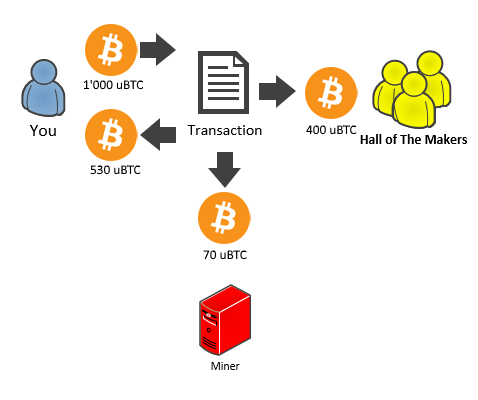
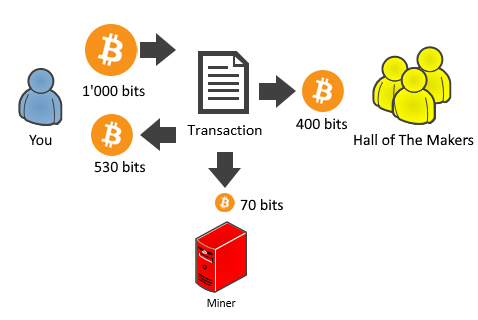
Fixed a few things according to our discussions
* Removed the "be careful" expression
* Replaced all blockchain explorer links with SmartBit
* Added back the console output comments
* Fixed a few typos
* Rewrote the unit description section
* Changed microBTC to bits
* Modified the SpendTx.png picture

Changed region(s): [[0.1757, 0.0625, 0.9958, 0.6562], [0.0293, 0.125, 0.1464, 0.4688], [0.41, 0.6875, 0.5272, 0.9688]]

diff --git a/bitcoin_transfer/spend_your_coin.md b/bitcoin_transfer/spend_your_coin.md
@@ -22,7 +22,7 @@ Console.WriteLine(bitcoinPrivateKey);
 Console.WriteLine(address);
 ```
 
-Note that we use the TestNet first, but you will probably do this on the MainNet as well, so you are going to spend real money! **Be careful!** In any case, write down the **bitcoinPrivateKey** and the address! Send a few dollars of coins there and save the transaction ID \(you can find it in your wallet software or with a blockexplorer, like [blockchain.info](http://blockchain.info/) for MainNet or [blockcypher.com](https://live.blockcypher.com) for both MainNet and TestNet).
+Note that we use the TestNet first, but you will probably do this on the MainNet as well, so you are going to spend real money! In any case, write down the **bitcoinPrivateKey** and the address! Send a few dollars of coins there and save the transaction ID \(you can find it in your wallet software or with a blockexplorer, like SmartBit for [MainNet](http://smartbit.com.au/) and [TestNet](https://testnet.smartbit.com.au/)).
 
 Import your private key (replace the "cN5Y...K2RS" string with yours):
 
@@ -31,19 +31,19 @@ var bitcoinPrivateKey = new BitcoinSecret("cN5YQMWV8y19ntovbsZSaeBxXaVPaK4n7vapp
 var network = bitcoinPrivateKey.Network;
 var address = bitcoinPrivateKey.GetAddress();
 
-Console.WriteLine(bitcoinPrivateKey);
-Console.WriteLine(address);
+Console.WriteLine(bitcoinPrivateKey); // cN5YQMWV8y19ntovbsZSaeBxXaVPaK4n7vapp4V56CKx5LhrK2RS
+Console.WriteLine(address); // mkZzCmjAarnB31n5Ke6EZPbH64Cxexp3Jp
 ```
 
-Wait for the confirmation and finally get the transaction info (replace the "0acb...b78a" with the one you got from your wallet software or blockchain explorer after you sent the coins):
+And finally get the transaction info (replace the "0acb...b78a" with the one you got from your wallet software or blockchain explorer after you sent the coins):
 
 ```cs
 var client = new QBitNinjaClient(network);
[1 lines of base64/hex data omitted]
 var transactionResponse = client.GetTransaction(transactionId).Result;
 
-Console.WriteLine(transactionResponse.TransactionId);
-Console.WriteLine(transactionResponse.Block.Confirmations);
+Console.WriteLine(transactionResponse.TransactionId); // 0acb6e97b228b838049ffbd528571c5e3edd003f0ca8ef61940166dc3081b78a
+Console.WriteLine(transactionResponse.Block.Confirmations); // 91
 ```
 
 Now we have every bit of information we need to create our transactions. The main questions are: **from where, to where and how much?**
@@ -83,16 +83,16 @@ Do you remember the main questions? **From where, to where and how much?**
 Constructing the **TxIn** and adding it to the transaction is the answer to the "from where" question.  
 Constructing the **TxOut** and adding it to the transaction is the answer to the remaining ones.
 
-> The donation address of this book is: [1KF8kUVHK42XzgcmJF4Lxz4wcL5WDL97PB](https://blockchain.info/address/1KF8kUVHK42XzgcmJF4Lxz4wcL5WDL97PB)  
+> The donation address of this book is: [1KF8kUVHK42XzgcmJF4Lxz4wcL5WDL97PB](https://www.smartbit.com.au/address/1KF8kUVHK42XzgcmJF4Lxz4wcL5WDL97PB)  
 This money goes into Nicolas' "Coffee and Sushi Wallet" that will keep him fed and compliant while writing the rest of the book.  
 If you succeed in completing this challenge on the MainNet you will be able to find your contribution among the **Hall of the Makers** on [http://n.bitcoin.ninja/](http://n.bitcoin.ninja/) \(ordered by generosity\).
 
-To get the our MainNet address:
+To get our MainNet address:
 ```cs
 var hallOfTheMakersAddress = new BitcoinPubKeyAddress("1KF8kUVHK42XzgcmJF4Lxz4wcL5WDL97PB");
 ```
 
-Or if you are working on the TestNet, send the TestNet coins to [our TestNet address](https://live.blockcypher.com/btc-testnet/address/mzp4No5cmCXjZUpf112B1XWsvWBfws5bbB/).
+Or if you are working on TestNet, send the TestNet coins to any address. I used [mzp4No5cmCXjZUpf112B1XWsvWBfws5bbB](https://testnet.smartbit.com.au/address/mzp4No5cmCXjZUpf112B1XWsvWBfws5bbB).
 
 ```cs
 var hallOfTheMakersAddress = BitcoinAddress.Create("mzp4No5cmCXjZUpf112B1XWsvWBfws5bbB", Network.TestNet);
@@ -100,11 +100,11 @@ var hallOfTheMakersAddress = BitcoinAddress.Create("mzp4No5cmCXjZUpf112B1XWsvWBf
 
 ### How much?
 
-Bitcoin has [several units to use](https://en.bitcoin.it/wiki/Units). 1 bitcoin (BTC) is 1'000 milli-bitcoins/millibits. 1 milli-bitcoin (mBTC) is 1'000 micro-bitcoins/bits. And finally 1 (&micro;BTC) micro-bitcoin is 100 satoshis. 1 satoshi (sat) is the smallest unit on the Bitcoin network.  
+Bitcoin has [several units to use](https://en.bitcoin.it/wiki/Units), but there are three you should know about: bitcoins, bits and satoshis. 1 bitcoin (BTC) is 1'000'000 bits and 100 satoshis are 1 bit. 1 satoshi (sat) is the smallest unit on the Bitcoin network.  
 
-If you want to send **400 &micro;BTC** (a few dollars) from an **unspent output**, which holds **1'000 &micro;BTC**, you actually have to spend it all!  
-As the diagram shows below, your **transaction output** specifies  **400 &micro;BTC** to [Hall of The Makers](http://n.bitcoin.ninja/) and **530 &micro;BTC** back to you.  
-What happens to the remaining **70 &micro;BTC**? This is the _miner fee_.  
+If you want to send **400 bits** (a few dollars) from an **unspent output**, which holds **1'000 bits**, you actually have to spend it all!  
+As the diagram shows below, your **transaction output** specifies  **400 bits** to [Hall of The Makers](http://n.bitcoin.ninja/) and **530 bits** back to you.  
+What happens to the remaining **70 bits**? This is the _miner fee_.  
 The miner fee incentivizes the miners to add this transaction into their next block. The higher the miner fee the more motivated the miner is to include your transaction in the next block, meaning that your transaction will be confirmed faster. If you set the miner fee to zero, your transaction might never be confirmed.
 
 ![](../assets/SpendTx.png)
@@ -169,7 +169,7 @@ transaction.Outputs.Add(changeTxOut);
 
 ### Message on The Blockchain
 
-Now add your personal feedback! This must be less than 80 bytes or your transaction will be rejected.  
+Now add your personal feedback! This must be less than or equal to 80 bytes or your transaction will get rejected.  
 This message along with your transaction will appear \(after your transaction is confirmed\) in the [Hall of The Makers](http://n.bitcoin.ninja/)! :)
 
 ```cs
@@ -188,7 +188,7 @@ We have 3 **TxOut**, 2 with **value**, 1 without **value** \(which contains the 
 
 ```json
 {
[2 lines of base64/hex data omitted]
   "ver": 1,
   "vin_sz": 1,
   "vout_sz": 3,
@@ -223,7 +223,7 @@ We have 3 **TxOut**, 2 with **value**, 1 without **value** \(which contains the 
 Take a closer look at **TxIn**. We have **prev\_out** and **scriptSig** there.  
 **Exercise:** try to figure out what **scriptSig** will be and how to get it in our code before you read further!
 
-Let's check out the **hash** of **prev\_out** in a TestNet blockexplorer: [prev\_out tx details](https://live.blockcypher.com/btc-testnet/tx/0acb6e97b228b838049ffbd528571c5e3edd003f0ca8ef61940166dc3081b78a/).  You can see that 0.001 BTC, so 1'000 &micro;BTC was transferred to our address.
+Let's check out the **hash** of **prev\_out** in a TestNet blockexplorer: [prev\_out tx details](https://testnet.smartbit.com.au/tx/0acb6e97b228b838049ffbd528571c5e3edd003f0ca8ef61940166dc3081b78a).  You can see that 0.001 BTC, so 1'000 bits was transferred to our address.
 
 In **prev\_out** **n** is 0. Since we are indexing from 0, this means that we want to spend the first output of the transaction (the second one is the 1.0989548 BTC change from the transaction).  
 
@@ -237,7 +237,7 @@ First let's revisit the **scriptSig** of **in** and how we can get it from code.
 
 ```cs
 // Get it from the public address
-var address = BitcoinAddress.Create("mkZzCmjAarnB31n5Ke6EZPbH64Cxexp3Jp");
+var address = BitcoinAddress.Create("mkZzCmjAarnB31n5Ke6EZPbH64Cxexp3Jp", Network.TestNet);
 transaction.Inputs[0].ScriptSig = address.ScriptPubKey;
 
 // OR we can also use the private key 
@@ -252,7 +252,7 @@ transaction.Sign(bitcoinPrivateKey, false);
 ```
 After this command the ScriptSig property of the input will be replaced by the signature, making the transaction signed.  
 
-You can check out our TestNet transaction on the blockchain explorer [here](https://live.blockcypher.com/btc-testnet/tx/eeffd48b317e7afa626145dffc5a6e851f320aa8bb090b5cd78a9d2440245067).
+You can check out our TestNet transaction on the blockchain explorer [here](https://testnet.smartbit.com.au/tx/eeffd48b317e7afa626145dffc5a6e851f320aa8bb090b5cd78a9d2440245067).
 
 ### Propagate your transactions
 
